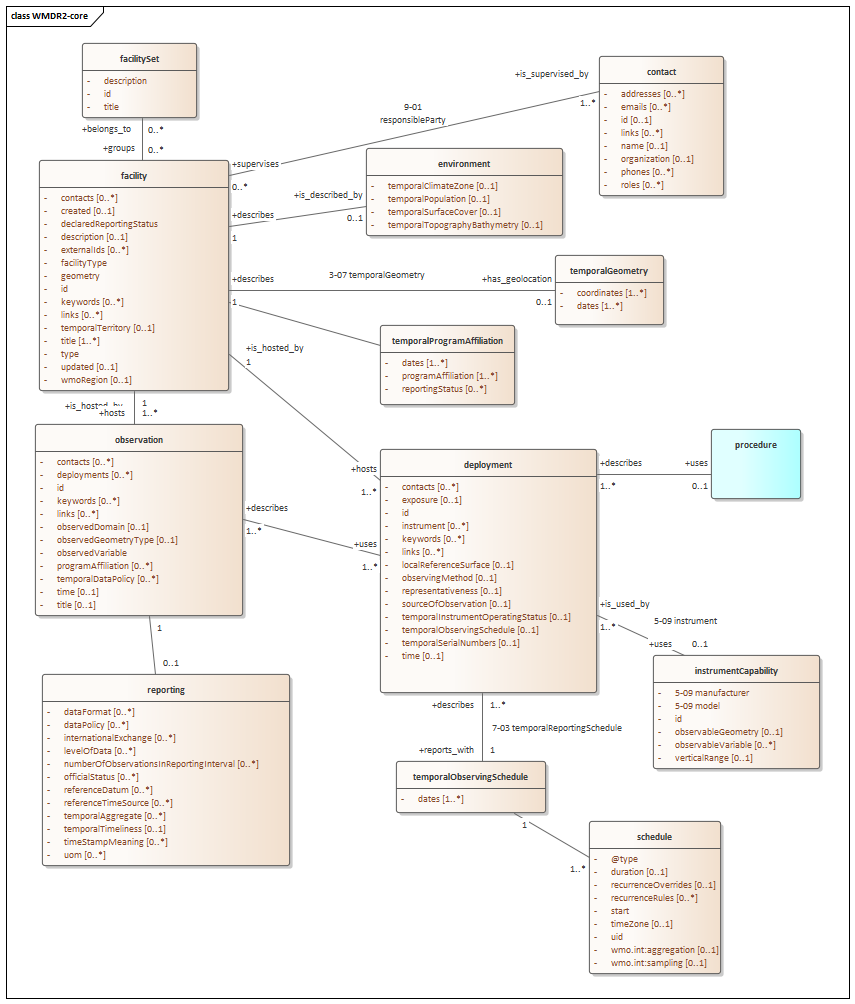
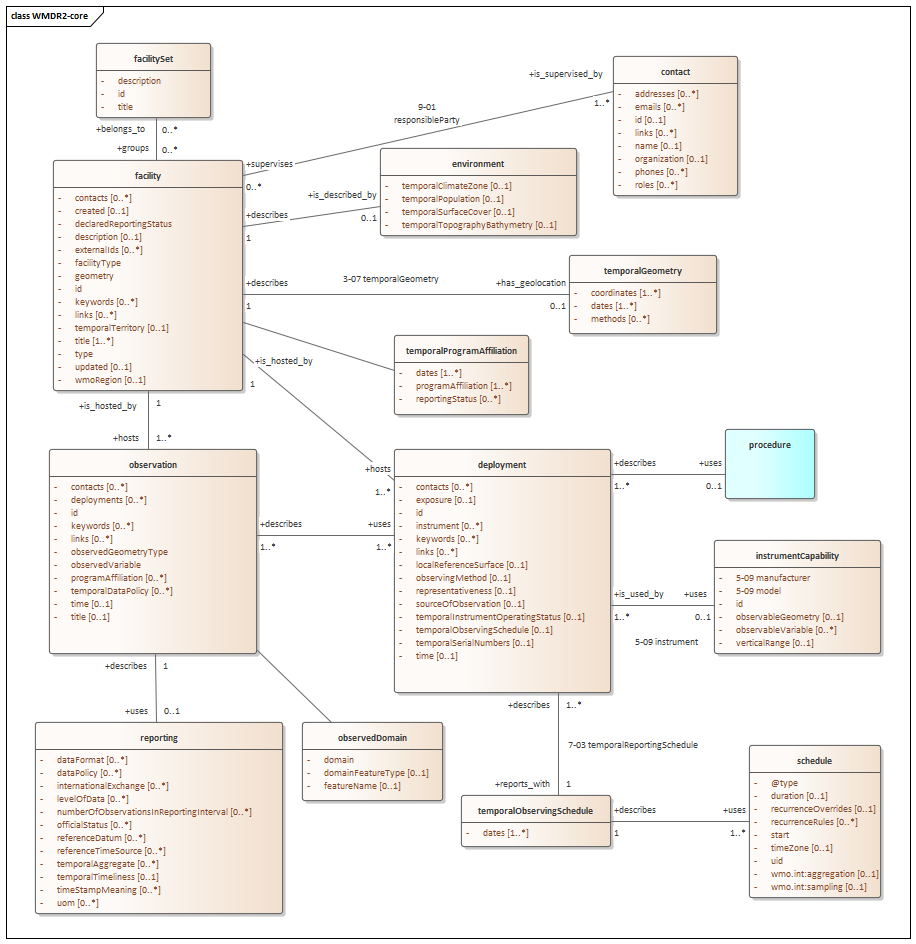
fix,feat:Update EA model to v0.1.8 (require and expanded observation.observedDomain (includes domain, domainFeature [0..1], featureName [0..1]) ; introduce temporalGeometry.methods)

Changed region(s): [[0.0, 0.0, 1.0, 1.0], [0.9731, 0.0, 1.0, 0.0307]]

diff --git a/tests/test_temporal_geometry_methods.py b/tests/test_temporal_geometry_methods.py
@@ -1,0 +1,116 @@
+import json
+import sys
+from pathlib import Path
+from typing import Any
+
+import pytest
+from jsonschema import Draft202012Validator, RefResolver
+
+ROOT = Path(__file__).resolve().parents[1]
+if str(ROOT) not in sys.path:
+    sys.path.insert(0, str(ROOT))
+
+from convert_wmdr10_json_to_wmdr2_json import (  # noqa: E402
+    _clean_none,
+    _facility_temporal_geometry_entries,
+    _temporal_geometry_extension,
+)
+
+SCHEMAS = ROOT / "schemas"
+
+
+def _temporal_geometry_validator() -> Draft202012Validator:
+    schema = json.loads((SCHEMAS / "wmdr2-common.schema.json").read_text(encoding="utf-8"))
+    resolver = RefResolver.from_schema(schema)
+    return Draft202012Validator(schema["$defs"]["temporalGeometry"], resolver=resolver)
+
+
+def _assert_valid_temporal_geometry(payload: dict[str, Any]) -> None:
+    errors = sorted(_temporal_geometry_validator().iter_errors(payload), key=lambda error: list(error.path))
+    assert not errors, "\n".join(error.message for error in errors)
+
+
+def test_temporal_geometry_schema_accepts_aligned_methods_lists() -> None:
+    _assert_valid_temporal_geometry(
+        {
+            "type": "MovingPoint",
+            "coordinates": [[7.0, 46.0, 100], [7.1, 46.1, 101], [7.2, 46.2, 102]],
+            "dates": ["2020-01-01", "2021-01-01", "2022-01-01"],
+            "methods": [[], ["gps"], ["gps", "surveyed"]],
+        }
+    )
+
+
[email redacted](
+    "methods",
+    [
+        ["gps", "surveyed"],
+        [[], "gps"],
+        [["gps"], [123]],
+        [[""]],
+    ],
+)
+def test_temporal_geometry_schema_rejects_non_list_of_list_methods(methods: Any) -> None:
+    payload = {
+        "type": "MovingPoint",
+        "coordinates": [[7.0, 46.0], [7.1, 46.1]],
+        "dates": ["2020-01-01", "2021-01-01"],
+        "methods": methods,
+    }
+    errors = list(_temporal_geometry_validator().iter_errors(payload))
+    assert errors
+
+
+def test_converter_emits_aligned_methods_from_geopositioning_method() -> None:
+    facility = {
+        "geospatialLocation": {
+            "geoLocation": "46.0 7.0 100",
+            "date": "2020-01-01",
+            "geopositioningMethod": "http://codes.wmo.int/wmdr/GeopositioningMethod/gps",
+        },
+        "geospatialLocationHistory": [
+            {
+                "geoLocation": "46.1 7.1 101",
+                "date": "2021-01-01",
+                "geopositioningMethod": [
+                    "http://codes.wmo.int/wmdr/GeopositioningMethod/gps",
+                    {"href": "http://codes.wmo.int/wmdr/GeopositioningMethod/surveyed"},
+                ],
+            },
+            {
+                "geoLocation": "46.2 7.2 102",
+                "date": "2022-01-01",
+            },
+        ],
+    }
+
+    entries = _facility_temporal_geometry_entries(facility)
+    temporal_geometry = _temporal_geometry_extension(entries)
+
+    assert temporal_geometry is not None
+    assert temporal_geometry["dates"] == ["2020-01-01", "2021-01-01", "2022-01-01"]
+    assert temporal_geometry["methods"] == [["gps"], ["gps", "surveyed"], []]
+
+
+def test_clean_none_preserves_empty_temporal_geometry_methods_slots() -> None:
+    payload = {"temporalGeometry": {"methods": [["gps"], []]}}
+    assert _clean_none(payload) == {"temporalGeometry": {"methods": [["gps"], []]}}
+
+
+def test_clean_none_does_not_preserve_empty_lists_for_unrelated_methods_keys() -> None:
+    payload = {"properties": {"methods": [["abc"], []]}}
+    assert _clean_none(payload) == {"properties": {"methods": [["abc"]]}}
+
+
+def test_converter_omits_methods_when_absent() -> None:
+    facility = {
+        "geospatialLocation": {"geoLocation": "46.0 7.0 100", "date": "2020-01-01"},
+        "geospatialLocationHistory": [
+            {"geoLocation": "46.1 7.1 101", "date": "2021-01-01"},
+        ],
+    }
+
+    temporal_geometry = _temporal_geometry_extension(_facility_temporal_geometry_entries(facility))
+
+    assert temporal_geometry is not None
+    assert "methods" not in temporal_geometry